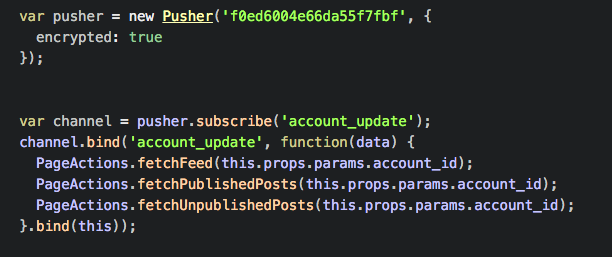
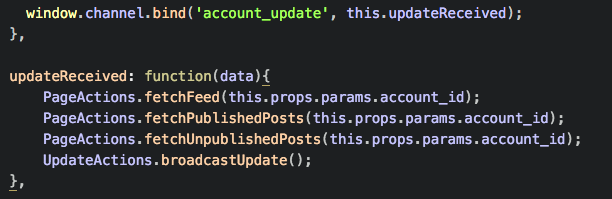
changed psher subscribe picture

diff --git a/frontend/components/account_page.jsx b/frontend/components/account_page.jsx
@@ -33,17 +33,14 @@ const AccountPage = React.createClass({
     // var pusher = new Pusher('f0ed6004e66da55f7fbf', {
     //   encrypted: true
     // });
-
-
     // var channel = window.pusher.subscribe('account_update');
     // var channel = window.pusher;
+
+
     window.channel.bind('account_update', this.updateReceived);
-
-
   },
 
   updateReceived: function(data){
-      console.log(this.props.params.account_id);
       PageActions.fetchFeed(this.props.params.account_id);
       PageActions.fetchPublishedPosts(this.props.params.account_id);
       PageActions.fetchUnpublishedPosts(this.props.params.account_id);
